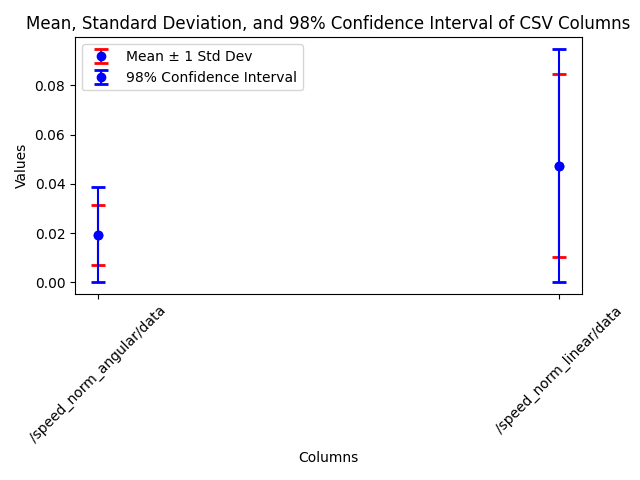
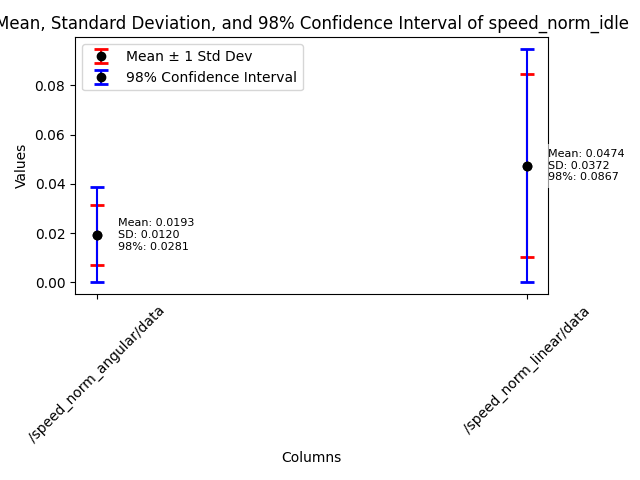
Corrected transitioning power computation

diff --git a/rosbags/script/display_statistics.py b/rosbags/script/display_statistics.py
@@ -4,9 +4,9 @@ import pandas as pd
 import matplotlib.pyplot as plt
 import numpy as np
 
-def display_statistics(csv_file):
+def display_statistics(csv_file_path, csv_file):
     # Load the CSV file into a DataFrame
-    df = pd.read_csv(csv_file)
+    df = pd.read_csv(csv_file_path)
     
     # Check if there are at least two columns in the CSV file
     if df.shape[1] < 2:
@@ -51,13 +51,13 @@ def display_statistics(csv_file):
 
     plt.xlabel('Columns')
     plt.ylabel('Values')
-    plt.title('Mean, Standard Deviation, and 98% Confidence Interval of CSV Columns')
+    plt.title("Mean, Standard Deviation, and 98% Confidence Interval of " + os.path.splitext(csv_file)[0])
     plt.xticks(x, columns, rotation=45)
     plt.legend()
     plt.tight_layout()
     
     # Extract directory path from the CSV file path
-    output_directory = os.path.dirname(csv_file)
+    output_directory = os.path.dirname(csv_file_path)
     
     # Save the graph in the same folder as the CSV file
     graph_file = os.path.join(output_directory, 'statistics_plot.png')
@@ -66,12 +66,13 @@ def display_statistics(csv_file):
 
 if __name__ == "__main__":
     if len(sys.argv) == 1:
-        csv_file = f"../bagfiles/speed_norm_idle/speed_norm_idle.csv"
-        display_statistics(csv_file)
+        csv_file = "speed_norm_idle"
+        csv_file_path = f"../bagfiles/speed_norm_idle/speed_norm_idle.csv"
+        display_statistics(csv_file_path, csv_file)
     elif len(sys.argv) == 2:
         bag_file = sys.argv[1]
         default_bag_file_without_extension = os.path.splitext(bag_file)[0]
-        csv_file = f"../bagfiles/{default_bag_file_without_extension}/{default_bag_file_without_extension}.csv"
-        display_statistics(csv_file)
+        csv_file_path = f"../bagfiles/{default_bag_file_without_extension}/{default_bag_file_without_extension}.csv"
+        display_statistics(csv_file_path, default_bag_file_without_extension)
     else:
         print("Usage: python display_statistics.py <csv_file>")

diff --git a/simulation_slam/script/power_computation.py b/simulation_slam/script/power_computation.py
@@ -23,6 +23,7 @@ class PowerComputationNode:
         self.pub_cost_crawling = rospy.Publisher('/computed_cost_crawling', Float32, queue_size=10)
         self.pub_cost_transitioning = rospy.Publisher('/computed_cost_transitioning', Float32, queue_size=10)
         self.pub_cost_total = rospy.Publisher('/computed_cost_total', Float32, queue_size=10)
+        self.pub_elapsed_time = rospy.Publisher('/elapsed_time', Float32, queue_size=10)
 
         # Variables
         self.current_mode = None                           # "CRAWLING", "ROLLING", "FLIGHT"
@@ -62,12 +63,15 @@ class PowerComputationNode:
 
                 # Compute time since last mode change
                 elapsed_time = (current_time - self.last_time).to_sec()
+                self.pub_elapsed_time.publish(elapsed_time)
 
                 # Compute and publish energy comsumption per mode: E [J] = P [W] * dT [sec]
                 if self.current_mode == "ROLLING":
                     self.computed_cost_rolling = self.computed_cost_rolling + self.cost_rolling * elapsed_time
                 elif self.current_mode == "CRAWLING":
                     self.computed_cost_crawling = self.computed_cost_crawling + self.cost_crawling * elapsed_time
+
+                self.last_time = rospy.Time.now()
            
             else:
                 # Restart timer until the robot starts moving again to avoid integrating energy when robot is idle 
@@ -89,6 +93,8 @@ class PowerComputationNode:
 
                 # Compute and publish energy comsumption for transitioning: E [J] = P [W] * dT [sec]
                 self.computed_cost_transitioning = self.computed_cost_transitioning + self.cost_transitioning * elapsed_time
+
+                self.last_transitioning_time = rospy.Time.now()
         
             else:
                 # If stopped transitioning, reset the transition state to restart the last_transitioning_time timer

diff --git a/simulation_slam/script/navigation_state_estimator.py b/simulation_slam/script/navigation_state_estimator.py
@@ -31,8 +31,8 @@ class NavigationStateNode:
         self.joint_names = ['rear_left_hip', 'rear_right_hip', 'front_left_hip', 'front_right_hip']
         self.current_velocities = {}
         self.transition_speed_threshold = 0.5
-        self.linear_speed_threshold = 0.15
-        self.angular_speed_threshold = 0.1
+        self.linear_speed_threshold = 0.1662    # Mean_linear_speed - STD_linear_speed based on statistics performed on rosbags speed_norm_idle.bag and speed_norm_moving.bag
+        self.angular_speed_threshold = 0.0712     # Mean_angular_speed - STD_angular_speed based on statistics performed on rosbags speed_norm_idle.bag and speed_norm_moving.bag
         self.linear_speed_norm = 0.0
         self.angular_speed_norm = 0.0
 
@@ -64,10 +64,10 @@ class NavigationStateNode:
                 self.is_moving = False
 
             # Check if hips are moving (assuming hip movement => transition)
-            if (self.current_velocities['rear_left_hip'] > self.transition_speed_threshold or
-                self.current_velocities['rear_right_hip'] > self.transition_speed_threshold or
-                self.current_velocities['front_left_hip'] > self.transition_speed_threshold or
-                self.current_velocities['front_right_hip'] > self.transition_speed_threshold):
+            if (abs(self.current_velocities['rear_left_hip']) > self.transition_speed_threshold or
+                abs(self.current_velocities['rear_right_hip']) > self.transition_speed_threshold or
+                abs(self.current_velocities['front_left_hip']) > self.transition_speed_threshold or
+                abs(self.current_velocities['front_right_hip']) > self.transition_speed_threshold):
                 self.is_transitioning = True
             else:
                 self.is_transitioning = False
